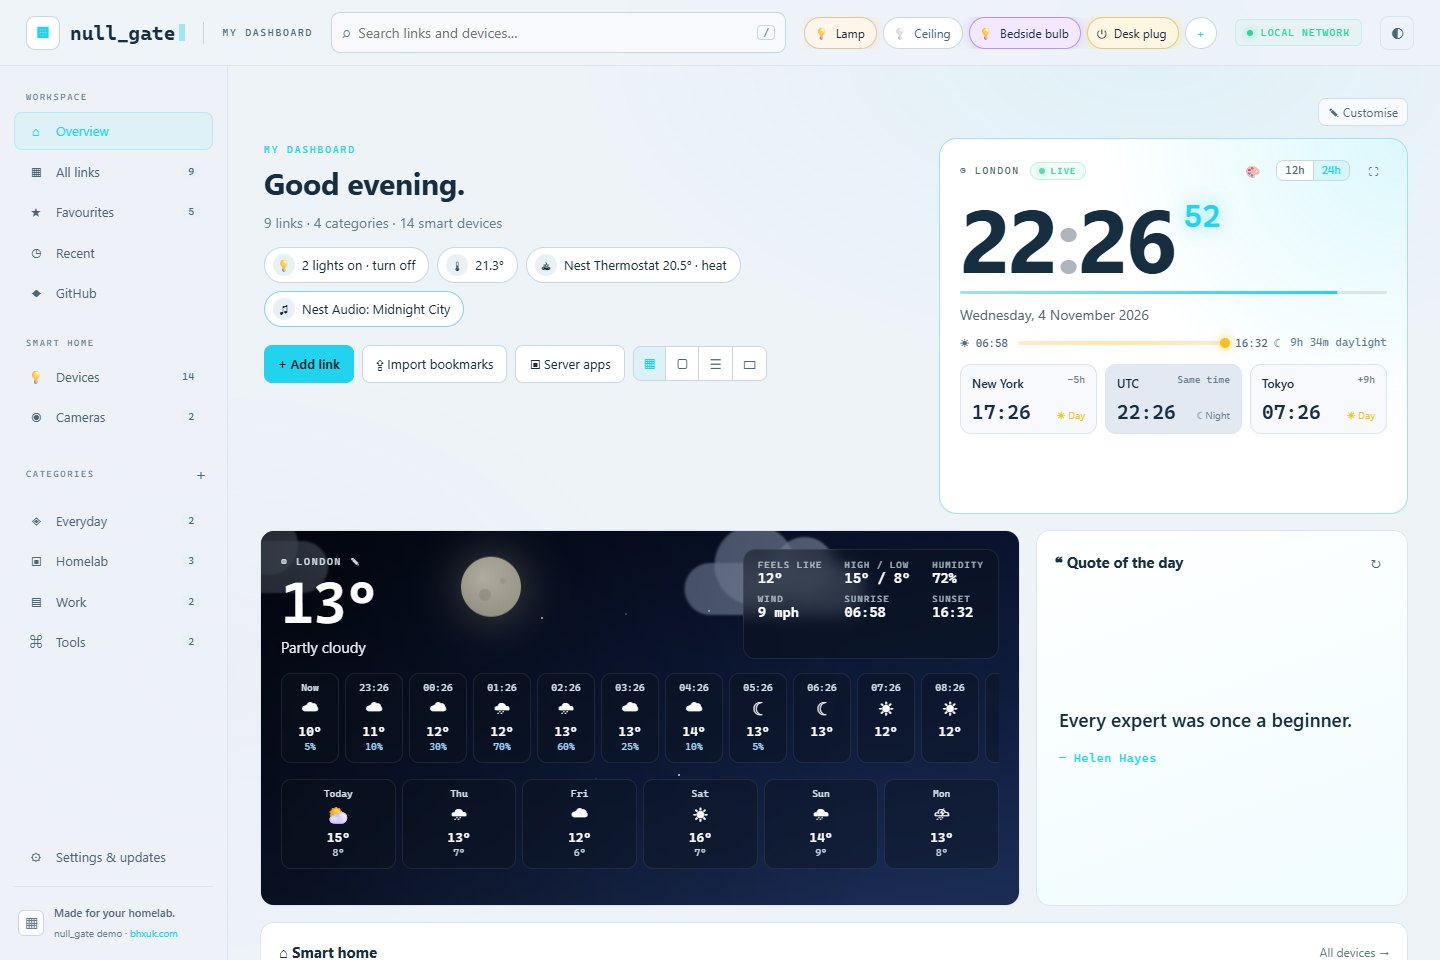
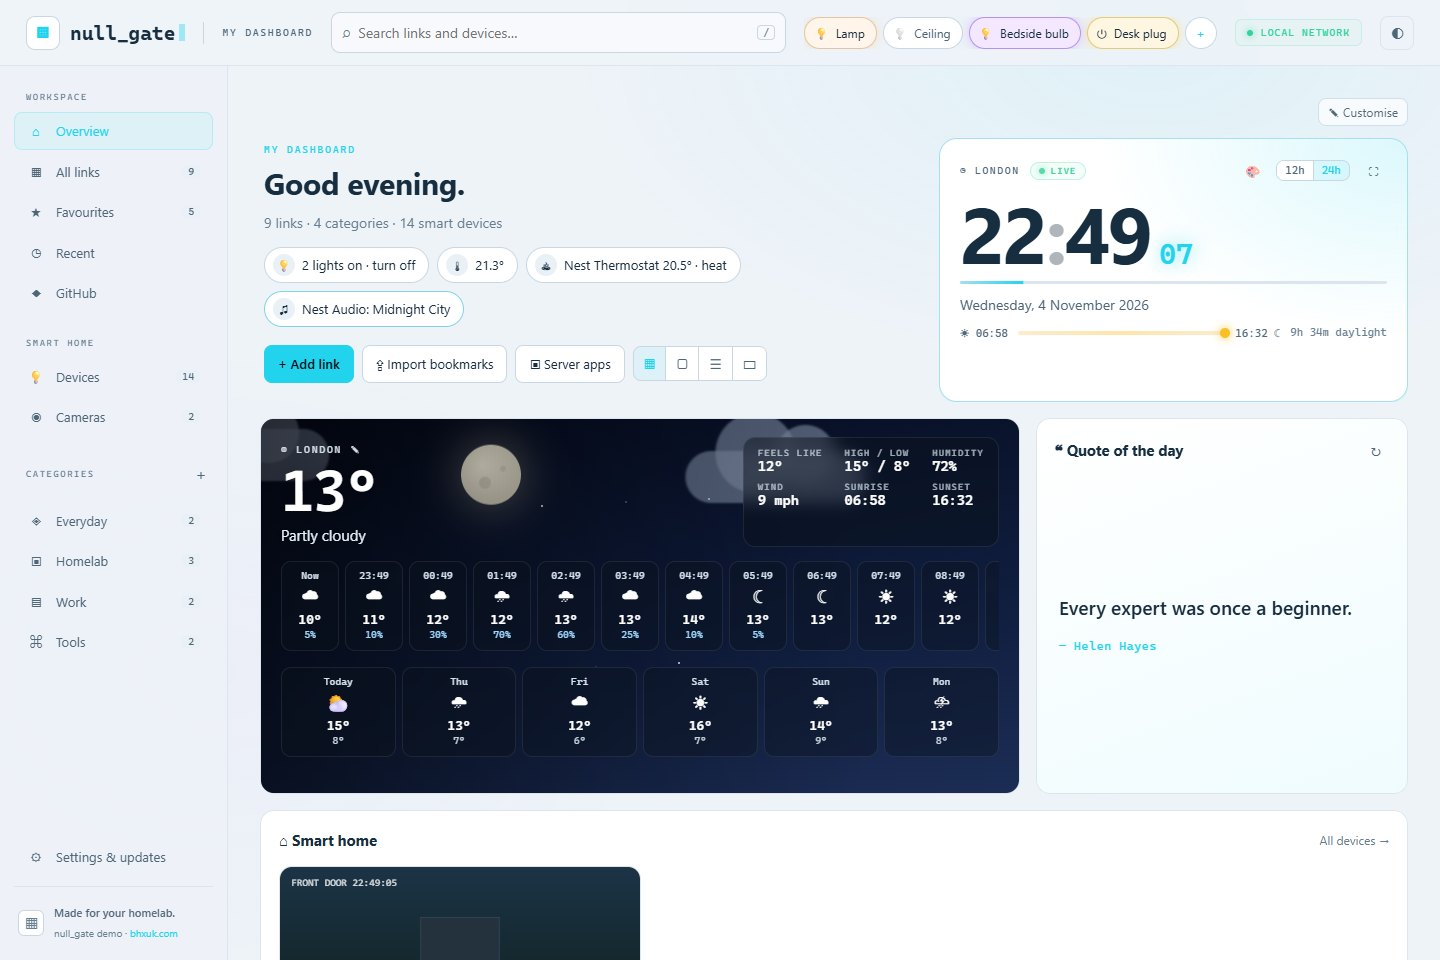
null_gate v1.0.2: shorter inline clock, pre-release history in changelog

diff --git a/app/static/app.css b/app/static/app.css
@@ -597,9 +597,9 @@ body.is-dragging .link-grid, body.is-dragging .drop-area { outline: 1px dashed c
   border: 1px solid #34d39940; background: #34d3990d; padding: 3px 8px; border-radius: 99px; }
 .live-chip i { width: 6px; height: 6px; border-radius: 50%; background: currentColor; box-shadow: 0 0 8px currentColor; animation: blink 1.6s ease-in-out infinite; }
 .segmented.mini button { padding: 3px 8px; font: 11px var(--mono); }
-.big-time { display: flex; align-items: flex-start; gap: 10px; margin: 8px 0 6px; line-height: 1; }
+.big-time { display: flex; align-items: baseline; gap: .12em; margin: 8px 0 6px; line-height: 1; }
 .big-time .hm { font: 700 84px/1 var(--sans); letter-spacing: -3px; color: var(--text); font-variant-numeric: tabular-nums; display: flex; }
-.big-time .sec-col { display: grid; gap: 6px; padding-top: 8px; }
+.big-time .sec-col { display: flex; align-items: baseline; gap: .3em; }
 .big-time .sec { font: 600 30px/1 var(--mono); color: var(--accent); display: flex; text-shadow: 0 0 18px color-mix(in srgb, var(--accent) 60%, transparent); }
 .big-time .period { font: 600 13px var(--mono); color: var(--muted); letter-spacing: 1px; }
 .digit, .colon { display: inline-block; }

diff --git a/app/static/js/main.js b/app/static/js/main.js
@@ -90,7 +90,7 @@ function overviewView() {
       h('h1', {}, greeting(s.settings.timezone) + '.'),
       h('p', { class: 'dim' }, `${s.links.length} links · ${s.categories.length} categories` + (app.home.config.configured ? ` · ${homeCount()} smart devices` : '')),
       statusChips(), actions) },
-    { id: 'clock', title: 'Clock', w: 5, h: 7, build: () => clockPanel() },
+    { id: 'clock', title: 'Clock', w: 5, h: 5, build: () => clockPanel() },
     { id: 'weather', title: 'Weather', w: 8, h: 7, build: () => weatherPanel() },
     { id: 'quote', title: 'Quote of the day', w: 4, h: 7, build: () => quotePanel() },
     { id: 'devices', title: 'Smart home', w: 12, h: 8, build: () => favouriteDevices() },

diff --git a/CHANGELOG.md b/CHANGELOG.md
@@ -3,6 +3,13 @@
 All notable changes to null_gate are listed here. Versions follow [semantic versioning](https://semver.org/).
 Each release is published on [GitHub Releases](https://github.com/bhxuk/null_gate/releases), and installs pick it up automatically.
 
+## [1.0.2] - 2026-11-04
+
+- The clock tile is shorter by default and lines up with the greeting next to it, with no empty space underneath.
+- Seconds now sit on the same line as the hours and minutes instead of floating above them, in every clock theme.
+- The changelog now includes the pre-release history.
+- Already customised your overview? Your saved tile sizes are kept. Click **✎ Customise** and drag the clock's ◢ corner up to match.
+
 ## [1.0.1] - 2026-11-04
 
 - **The installer now finds a free port.** It checks which ports are already used by other services and Docker containers, then lets you pick from a short list of free, easy-to-remember ports (4242, 7777, 3141…), type your own, or press Enter for the first one. This fixes installs failing with "port is already allocated" when 8088 was taken.
@@ -38,3 +45,90 @@ First public release of null_gate, a self-hosted dashboard for your local networ
 - Automatic updates from GitHub releases with validation, a snapshot first and automatic rollback if the new version fails to start.
 - Export/import backups and server snapshots; conflict detection across browser tabs.
 - LAN-only by design: binds to your LAN address, checks Host/Origin on writes and rejects public clients.
+
+## Pre-release history
+
+null_gate grew out of a private homelab dashboard. These are the development releases that led to 1.0.0.
+
+## [0.9.0] - 2026-11-03
+
+- Customisable overview: every block is a tile (greeting, clock, weather, quote, smart home, Favourites, each category and GitHub). Click **✎ Customise**, drag a tile by ⠿ to move it, drag the ◢ corner to resize it, ✕ to hide it and **+ Add tile** to bring it back.
+- Tiles with more content than fits scroll inside the tile, with a soft fade showing there's more.
+- The clock scales with its tile, and details hide themselves when the tile is small.
+- Six clock themes: Neon, Minimal, Widget, Retro LED, Flip and Analog. Tap 🎨 on the clock to cycle through them, or pick one in Settings → Appearance (12h/24h too).
+- The layout is saved on the server, so it's the same on every device.
+
+## [0.8.1] - 2026-11-03
+
+- Hidden scroll bars on the page, the sidebar and scrolling rows. Everything still scrolls with the mouse wheel, touchpad or touch.
+- The clock shows your weather town instead of the time zone's city when both are in the same time zone.
+
+## [0.8.0] - 2026-11-03
+
+- Live clock card: large time with rolling digits, glowing seconds, a seconds bar, a LIVE badge, a 12h/24h switch and a fullscreen wall-clock mode.
+- Sunrise-to-sunset daylight bar showing where the sun is today.
+- World clocks became cards with the time difference and day/night.
+- Change the weather location straight from the weather card.
+- Quick lights in the top bar on every page: pick up to 12 lights or switches with **+**, then tap to switch them. They glow in the bulb's colour when on.
+
+## [0.7.0] - 2026-11-03
+
+- Drag and drop links anywhere: reorder within a section, drop into Favourites to pin, drop into another category to move it, or drop onto a category or Favourites in the sidebar.
+- Drop zones highlight while you drag, and an empty Favourites shows a drop area.
+- Long icon text shrinks to fit inside the icon.
+
+## [0.6.0] - 2026-11-03
+
+- Live weather with an animated sky: sun, moon and stars, drifting clouds, rain, snow, fog and thunderstorms. Shows feels-like, high/low, humidity, wind, sunrise and sunset, the next 12 hours and 6 days. Powered by Open-Meteo, no API key.
+- Analog clock with a sweeping second hand next to the digital time.
+- Quote of the day, changing daily, with a button for another one.
+- GitHub page: newest repositories for a username you choose and the most-starred new repositories this week, with a summary on the overview.
+- Optional links file: links listed in a text file are added on startup, once each, so links you delete stay deleted.
+- Optional GitHub token for update checks.
+- Fixed link and device accent colours not showing.
+
+## [0.5.0] - 2026-11-02
+
+- Removed the Tasks panel so the overview uses the full width and every category shows all its links.
+- Status chips on the overview and Smart home page: lights on (tap to switch them all off), average temperature and humidity, thermostat, what's playing, motion and open doors/windows.
+- Room cards on the Smart home page with temperature, humidity, lights and media for each room, and one switch for all the room's lights.
+- Quick actions moved into a compact button row under the greeting.
+- Existing tasks and notes stay in the data file and backups.
+
+## [0.4.0] - 2026-11-02
+
+- Automatic updates: checks GitHub every hour, backs up your data, updates and rolls back by itself if the new version fails to start. Turn it off in Settings → Updates.
+- With automatic updates off, a banner shows when an update is ready, with an **Update now** button.
+- Open pages reload themselves after an update.
+- Removed the Notes panel from the overview. Existing notes stay in backups and the data file.
+
+## [0.3.0] - 2026-11-01
+
+- Rebuilt from the ground up: modular JavaScript, a rewritten stylesheet and a tidier Python server. Same LAN-only Docker setup and no extra dependencies.
+- Smart home through Home Assistant: lights with brightness, warmth and colour; Google Nest speakers, Nest Hubs and Chromecasts; thermostats; switches, plugs, fans, blinds, vacuums, scenes, scripts and sensors, grouped by room.
+- Cameras view with live-refreshing snapshots and a full-screen live view.
+- Pin any device with ★ to show it on the overview; hide devices you never use.
+- The Home Assistant token stays on the server (owner-only file), is never sent to the browser and is not included in exports. Only a fixed list of safe actions can be sent; locks and alarms are read-only.
+- New overview with greeting, quick actions, favourite devices, favourite links and every category at a glance.
+- Server apps starter covers the common homelab: Plex, Sonarr, Radarr, Prowlarr, Bazarr, qBittorrent, Seerr, Tautulli, Home Assistant, Portainer, Glances and more, with editable ports.
+- Search covers links and devices. Configurable world clocks. Categories can be renamed, re-iconed, reordered and deleted.
+- Mobile layout with a slide-out menu.
+
+## [0.2.0] - 2026-10-29
+
+- Bulk-add links by pasting URLs, named lists, CSV/TSV or Markdown links.
+- Import multiple `.url`, `.webloc`, text list and browser bookmark HTML files.
+- Review and select links before import, with validation, duplicate detection, default categories and optional favourites.
+- Compact default layout, a dense table/list view and a TV launcher with horizontal category shelves, arrow-key navigation and fullscreen.
+- Switch layouts from the dashboard or Settings; the choice is saved across devices.
+
+## [0.1.0] - 2026-10-29
+
+- First working version: navy panels, cyan accents, sidebar navigation and responsive layouts.
+- Clock and date, world clocks, search, categories, favourites, frequent and recent links.
+- Link editing, custom icons and colours, preview images and optional embedded previews.
+- Homelab starter pack with editable server address and app shortcuts.
+- Drag-and-drop ordering, keyboard move controls, light/dark themes and backgrounds.
+- JSON export/import and automatic backup before imports and updates.
+- Server storage with conflict detection between tabs and same-origin write protection.
+- Docker Compose deployment without Docker socket access, release checks and one-click updates with validation, backup and automatic rollback.
